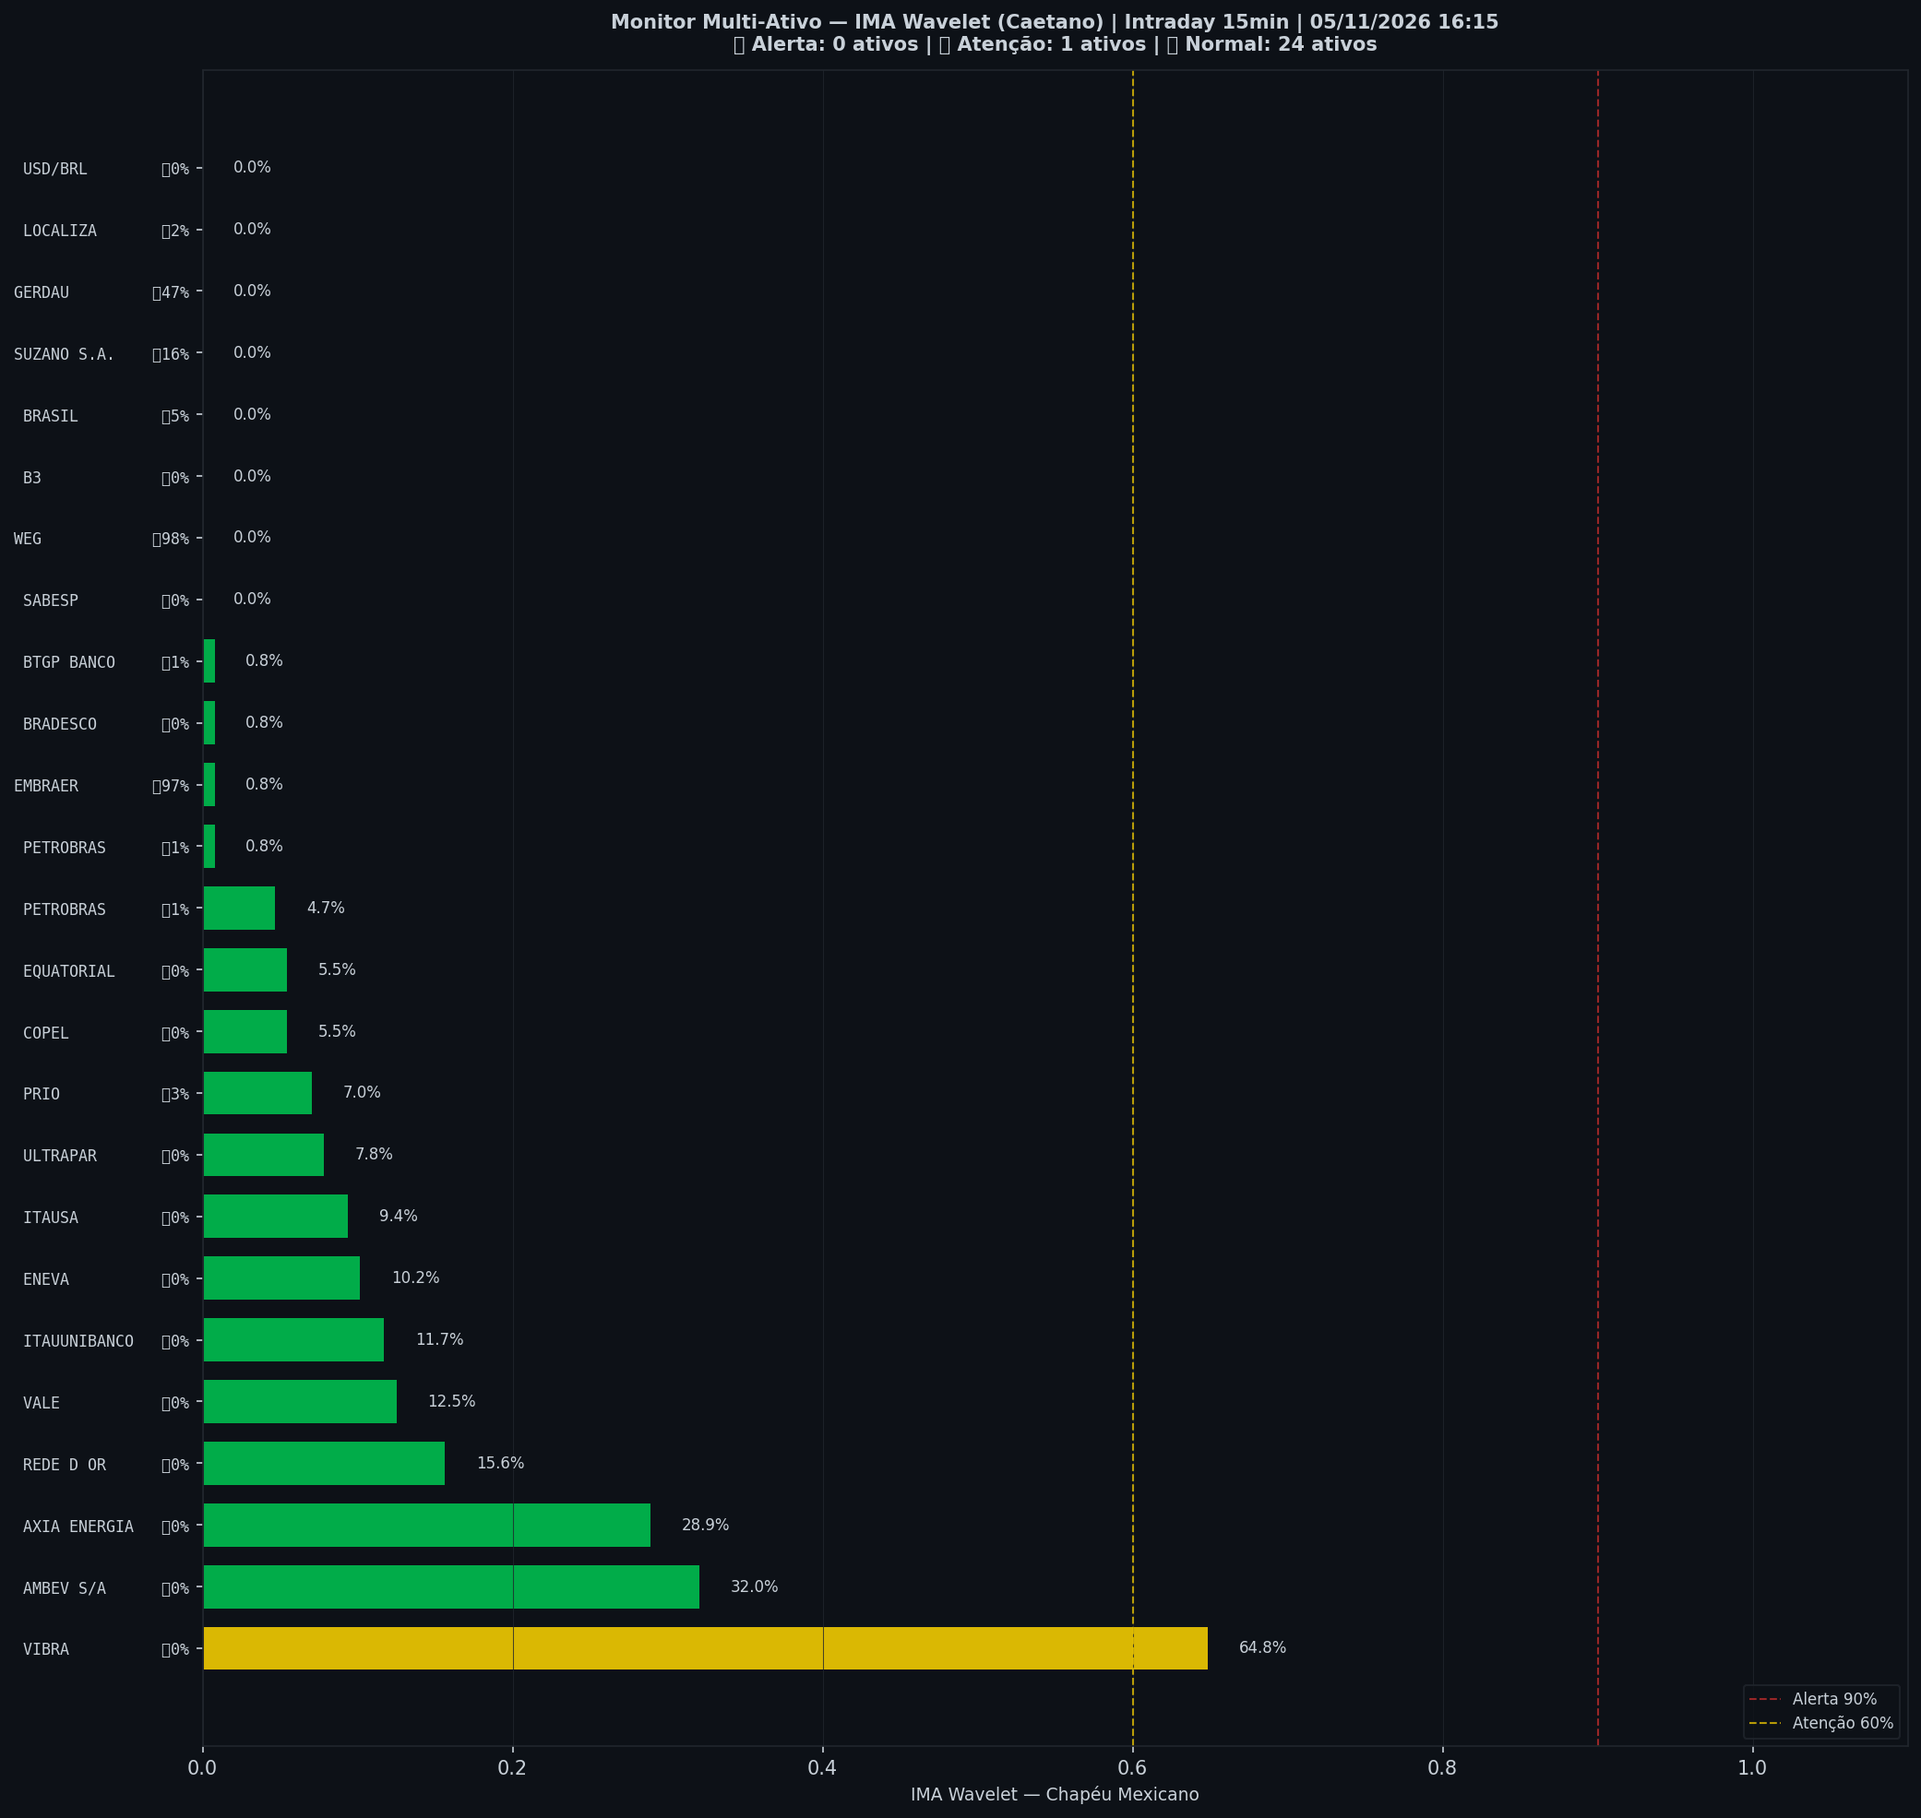
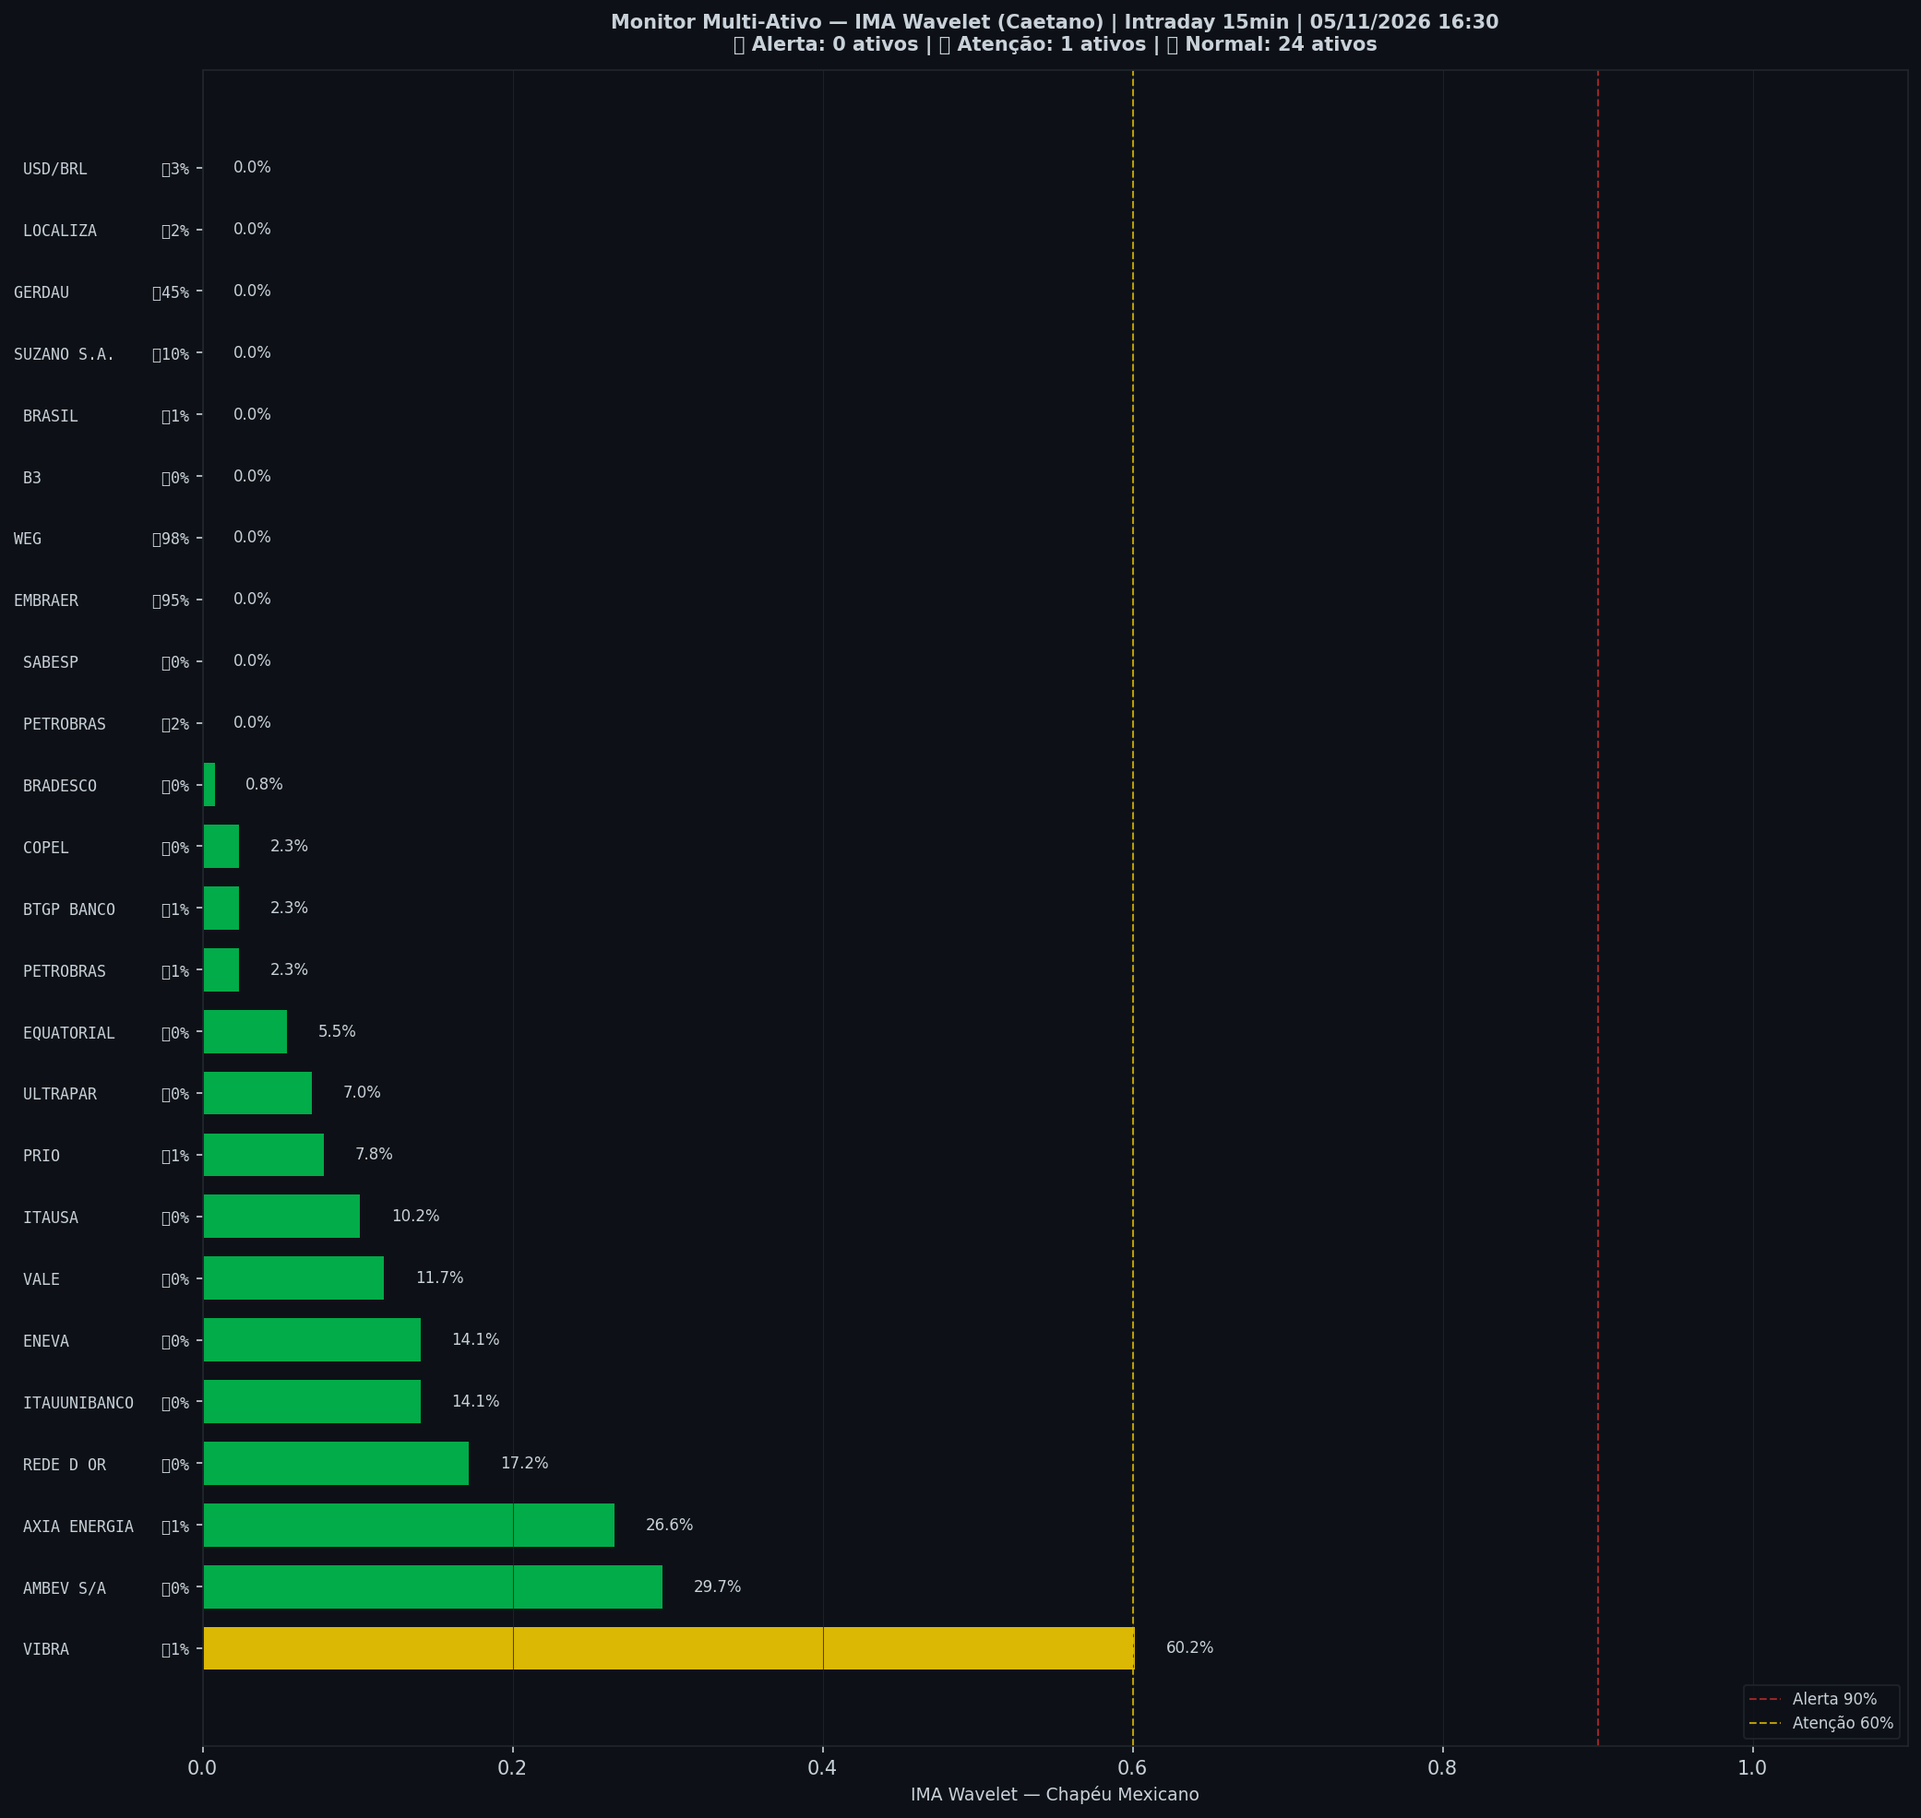
🤖 Auto: Sinal 05/11/2026 16:30

diff --git a/content/intraday/2026-11-05.md b/content/intraday/2026-11-05.md
@@ -1,10 +1,10 @@
 ---
-title: "🟢 Intraday 05/11/2026 16:00 BRT — VERDE"
+title: "🟢 Intraday 05/11/2026 16:15 BRT — VERDE"
 date: 2026-11-05
 tags: [intraday]
 ---
 
-> [!success] Onde o mercado está agora (05/11 16:00, candles de 15 min): **🟢 Calmo**
+> [!success] Onde o mercado está agora (05/11 16:15, candles de 15 min): **🟢 Calmo**
 > `Pânico ◀──────────●──────────▶ Euforia`
 >
 > O Ibovespa está dentro da sua faixa normal, sem excesso para cima nem para baixo.
@@ -20,7 +20,7 @@ tags: [intraday]
 > | 📍 **Sinais** | hoje: nenhum sinal | [abrir](sinais-topo-fundo/) |
 > | 🧪 **Placar ao vivo** | 1 operação(ões), 0 com lucro, soma -0,8% | [abrir](operacoes/) |
 
-> [!success] IMA Intraday · 15 min (05/11 16:00): 🟢 **VERDE** — Risco 1% · ＝ +0 p.p. vs leitura anterior
+> [!success] IMA Intraday · 15 min (05/11 16:15): 🟢 **VERDE** — Risco 0% · ▼ -1 p.p. vs leitura anterior
 > `░░░░░░░░░░░░░░░░░░░░`
 > Preço na faixa normal em torno da tendência.
 
@@ -32,13 +32,13 @@ tags: [intraday]
 >
 > *Leitura educacional baseada em 26 anos de dados, não recomendação. [Como usar](../metodologia/crise#3-como-usar-na-prática).*
 
-| Indicador — IMA Intraday · 15 min (05/11 16:00) | Valor |
+| Indicador — IMA Intraday · 15 min (05/11 16:15) | Valor |
 |---|---|
-| 🔴 ζ Topo — preço esticado acima da tendência | **1%** |
+| 🔴 ζ Topo — preço esticado acima da tendência | **0%** |
 | 🔵 ζ Fundo — preço esticado abaixo da tendência | 0% |
 | 🫧 LPPL bolha — alta super-exponencial (risco de crash) | 0% |
 | 🫧 LPPL antibolha — queda super-exponencial (risco de repique) | 0% |
-| 📊 Ibovespa | 166.918 pts |
+| 📊 Ibovespa | 166.614 pts |
 
 ![Gráfico do sinal](../graficos/sinal_intraday.png)
 
@@ -46,6 +46,7 @@ tags: [intraday]
 
 | Data | Zona | Evento | Risco | ζ Topo | ζ Fundo | LPPL |
 |---|---|---|---|---|---|---|
+| 2026-11-05 16:15 | 🟢 VERDE |  | **0%** | 0% | 0% | 0% |
 | 2026-11-05 16:00 | 🟢 VERDE |  | **1%** | 1% | 0% | 0% |
 | 2026-11-05 15:45 | 🟢 VERDE |  | **1%** | 1% | 0% | 0% |
 | 2026-11-05 15:30 | 🟢 VERDE |  | **1%** | 1% | 0% | 0% |
@@ -75,7 +76,6 @@ tags: [intraday]
 | 2026-11-04 16:30 | 🟢 VERDE |  | **5%** | 5% | 0% | 0% |
 | 2026-11-04 16:15 | 🟢 VERDE |  | **8%** | 8% | 0% | 0% |
 | 2026-11-04 16:00 | 🟢 VERDE |  | **12%** | 12% | 0% | 0% |
-| 2026-11-04 15:45 | 🟢 VERDE |  | **19%** | 19% | 0% | 0% |
 
 <small>Destaques: 🟡 ≥ 60% · 🔴 ≥ 90% (Risco e ζ Topo) · 🔵 ≥ 60% · 🔪 ≥ 90% (ζ Fundo) · 🫧 ≥ 30% · 🫧🔴 ≥ 50% (LPPL)</small>
 
@@ -84,41 +84,41 @@ tags: [intraday]
 **4% dos ativos em tensão** (0🔴 1🟡) · **2 com ζ Fundo alto** — quanto mais ativos disparam juntos, mais confiável o sinal.
 
 > [!danger] Em destaque no multi-ativo
-> 🔪 **WEG** ζ Fundo 98% · 🔪 **EMBRAER** ζ Fundo 97% · 🟡 **VIBRA** ζ Topo 65%
+> 🔪 **WEG** ζ Fundo 98% · 🔪 **EMBRAER** ζ Fundo 95% · 🟡 **VIBRA** ζ Topo 60%
 
 | Zona | Ativo | Setor | ζ Topo | ζ Fundo |
 |---|---|---|---|---|
-| 🟢 | **WEG** | Industrial | 0.0% | 🔪 **98.4%** |
-| 🟢 | **EMBRAER** | Outros | 0.8% | 🔪 **96.9%** |
-| 🟡 | **VIBRA** | Energia | 🟡 **64.8%** | 0.0% |
-| 🟢 | **GERDAU** | Siderurgia | 0.0% | 46.9% |
-| 🟢 | **AMBEV S/A** | Consumo | 32.0% | 0.0% |
-| 🟢 | **AXIA ENERGIA** | Energia | 28.9% | 0.0% |
-| 🟢 | **REDE D OR** | Saúde | 15.6% | 0.0% |
-| 🟢 | **SUZANO S.A.** | Papel/Celulose | 0.0% | 15.6% |
-| 🟢 | **VALE** | Mineração | 12.5% | 0.0% |
-| 🟢 | **ITAUUNIBANCO** | Financeiro | 11.7% | 0.0% |
-| 🟢 | **ENEVA** | Energia | 10.2% | 0.0% |
-| 🟢 | **ITAUSA** | Financeiro | 9.4% | 0.0% |
-| 🟢 | **ULTRAPAR** | Outros | 7.8% | 0.0% |
-| 🟢 | **PRIO** | Petróleo | 7.0% | 3.1% |
-| 🟢 | **COPEL** | Energia | 5.5% | 0.0% |
+| 🟢 | **WEG** | Industrial | 0.0% | 🔪 **97.7%** |
+| 🟢 | **EMBRAER** | Outros | 0.0% | 🔪 **95.3%** |
+| 🟡 | **VIBRA** | Energia | 🟡 **60.2%** | 0.8% |
+| 🟢 | **GERDAU** | Siderurgia | 0.0% | 45.3% |
+| 🟢 | **AMBEV S/A** | Consumo | 29.7% | 0.0% |
+| 🟢 | **AXIA ENERGIA** | Energia | 26.6% | 0.8% |
+| 🟢 | **REDE D OR** | Saúde | 17.2% | 0.0% |
+| 🟢 | **ITAUUNIBANCO** | Financeiro | 14.1% | 0.0% |
+| 🟢 | **ENEVA** | Energia | 14.1% | 0.0% |
+| 🟢 | **VALE** | Mineração | 11.7% | 0.0% |
+| 🟢 | **ITAUSA** | Financeiro | 10.2% | 0.0% |
+| 🟢 | **SUZANO S.A.** | Papel/Celulose | 0.0% | 10.2% |
+| 🟢 | **PRIO** | Petróleo | 7.8% | 0.8% |
+| 🟢 | **ULTRAPAR** | Outros | 7.0% | 0.0% |
 | 🟢 | **EQUATORIAL** | Energia | 5.5% | 0.0% |
-| 🟢 | **PETROBRAS** | Petróleo | 4.7% | 0.8% |
-| 🟢 | **BRASIL** | Financeiro | 0.0% | 4.7% |
+| 🟢 | **USD/BRL** | Câmbio | 0.0% | 3.1% |
+| 🟢 | **PETROBRAS** | Petróleo | 2.3% | 0.8% |
+| 🟢 | **BTGP BANCO** | Financeiro | 2.3% | 0.8% |
+| 🟢 | **COPEL** | Energia | 2.3% | 0.0% |
+| 🟢 | **PETROBRAS** | Petróleo | 0.0% | 1.6% |
 | 🟢 | **LOCALIZA** | Aluguel | 0.0% | 1.6% |
-| 🟢 | **PETROBRAS** | Petróleo | 0.8% | 0.8% |
 | 🟢 | **BRADESCO** | Financeiro | 0.8% | 0.0% |
-| 🟢 | **BTGP BANCO** | Financeiro | 0.8% | 0.8% |
+| 🟢 | **BRASIL** | Financeiro | 0.0% | 0.8% |
 | 🟢 | **SABESP** | Saneamento | 0.0% | 0.0% |
 | 🟢 | **B3** | Financeiro | 0.0% | 0.0% |
-| 🟢 | **USD/BRL** | Câmbio | 0.0% | 0.0% |
 
 <small>Destaques: 🟡 ≥ 60% · 🔴 ≥ 90% (Risco e ζ Topo) · 🔵 ≥ 60% · 🔪 ≥ 90% (ζ Fundo) · 🫧 ≥ 30% · 🫧🔴 ≥ 50% (LPPL)</small>
 
 ![Monitor multi-ativo](../graficos/multi_intraday.png)
 
-*Página atualizada em 05/11/2026 16:15 BRT (leitura da barra de 2026-11-05 16:00 BRT).*
+*Página atualizada em 05/11/2026 16:30 BRT (leitura da barra de 2026-11-05 16:15 BRT).*
 
 > [!warning] O que este indicador não faz
 > Medido em 5 anos de Ibovespa, o ζ **não antecipa** topos nem fundos: a capacidade de separar o que sobe do que cai ficou em 0,49–0,52, e 0,50 é moeda jogada ao ar. Ele descreve o estado de agora; não é aviso do que vem. As zonas verde/amarelo/vermelho continuam na página como descrição desse estado — **não as use como sinal de entrada ou saída**.

diff --git a/content/index.md b/content/index.md
@@ -6,9 +6,9 @@ tags: [home]
 
 **As ondas do mercado, explicadas.** Leitura do Ibovespa com estatística de 26 anos, baseada no trabalho de pesquisadores e traders reconhecidos e adaptada por Jarbas Daniel da Costa.
 
-*Última atualização: 05/11/2026 16:15 BRT · Intraday 15min*
+*Última atualização: 05/11/2026 16:30 BRT · Intraday 15min*
 
-> [!success] Onde o mercado está agora (05/11 16:00, candles de 15 min): **🟢 Calmo**
+> [!success] Onde o mercado está agora (05/11 16:15, candles de 15 min): **🟢 Calmo**
 > `Pânico ◀──────────●──────────▶ Euforia`
 >
 > O Ibovespa está dentro da sua faixa normal, sem excesso para cima nem para baixo.
@@ -20,7 +20,7 @@ tags: [home]
 
 | Módulo | Agora | |
 |---|---|---|
-| 🌊 **Sinal de Crise** | 🟢 VERDE · 🟢 calmo · ζ Topo 1% | [relatório](intraday/2026-11-05) |
+| 🌊 **Sinal de Crise** | 🟢 VERDE · 🟢 calmo · ζ Topo 0% | [relatório](intraday/2026-11-05) |
 | 📈 **Tendência MME9** | Diário — fora<br>Semanal — fora | [abrir](operacoes/tendencia) |
 | 🎯 **Entradas do método** | ⏳ aguardando: Diário · Nadaraya, Diário · Semáforo N3 após ζ Fundo | [abrir](operacoes/entradas) |
 | 📍 **Sinais** | hoje: nenhum sinal | [abrir](sinais-topo-fundo/) |
@@ -54,18 +54,18 @@ tags: [home]
 > *Leitura educacional baseada em 26 anos de dados, não recomendação. [Como usar](metodologia/crise#3-como-usar-na-prática).*
 
 > [!info]- 🌊 Detalhes do Sinal de Crise (indicadores e últimos 7 pregões)
-> > [!success] IMA Intraday · 15 min (05/11 16:00): 🟢 **VERDE** — Risco 1% · ＝ +0 p.p. vs leitura anterior
+> > [!success] IMA Intraday · 15 min (05/11 16:15): 🟢 **VERDE** — Risco 0% · ▼ -1 p.p. vs leitura anterior
 > > `░░░░░░░░░░░░░░░░░░░░`
 > > Preço na faixa normal em torno da tendência.
 >
 >
-> | Indicador — IMA Intraday · 15 min (05/11 16:00) | Valor |
+> | Indicador — IMA Intraday · 15 min (05/11 16:15) | Valor |
 > |---|---|
-> | 🔴 ζ Topo — preço esticado acima da tendência | **1%** |
+> | 🔴 ζ Topo — preço esticado acima da tendência | **0%** |
 > | 🔵 ζ Fundo — preço esticado abaixo da tendência | 0% |
 > | 🫧 LPPL bolha — alta super-exponencial (risco de crash) | 0% |
 > | 🫧 LPPL antibolha — queda super-exponencial (risco de repique) | 0% |
-> | 📊 Ibovespa | 166.918 pts |
+> | 📊 Ibovespa | 166.614 pts |
 >
 > **Multi-ativo:** 4% em tensão (0🔴 1🟡 de 25 ativos)
 >
@@ -73,7 +73,7 @@ tags: [home]
 >
 > | Data | Zona | Risco | ζ Topo | ζ Fundo | LPPL |
 > |---|---|---|---|---|---|
-> | [05/11/2026](intraday/2026-11-05) | 🟢 VERDE | **1%** | 1% | 0% | 0% |
+> | [05/11/2026](intraday/2026-11-05) | 🟢 VERDE | **0%** | 0% | 0% | 0% |
 > | [04/11/2026](intraday/2026-11-04) | 🟢 VERDE | **4%** | 4% | 0% | 0% |
 >
 > <small>Destaques: 🟡 ≥ 60% · 🔴 ≥ 90% (Risco e ζ Topo) · 🔵 ≥ 60% · 🔪 ≥ 90% (ζ Fundo) · 🫧 ≥ 30% · 🫧🔴 ≥ 50% (LPPL)</small>

diff --git a/content/operacoes/entradas.md b/content/operacoes/entradas.md
@@ -31,7 +31,7 @@ description: "Compra depois de um sinal de fundo: Nadaraya no diário, semáforo
 > | Diário · Semáforo N3 após ζ Fundo | 07/07/26 a 172.021 | 10/08/26 a 172.021 | **+0,0%** | stop no preço de entrada |
 > | H4 · Semáforo N2 | 12/06/26 14h a 171.134 | 15/06/26 14h a 171.134 | **+0,0%** | stop no preço de entrada |
 >
-> <small>Atualizado 04/11 19:00 · checado no pregão às 16:15. Nota: ✅ passou no teste fora da amostra (walk-forward 2008–2026) · 🧪 em teste (H4, com aviso no Telegram) ou em observação (ζ, sem aviso) · 🧪 na tabela = operação do teste ao vivo.</small>
+> <small>Atualizado 04/11 19:00 · checado no pregão às 16:30. Nota: ✅ passou no teste fora da amostra (walk-forward 2008–2026) · 🧪 em teste (H4, com aviso no Telegram) ou em observação (ζ, sem aviso) · 🧪 na tabela = operação do teste ao vivo.</small>
 >
 > *Regras: depois de um sinal de fundo, o Diário entra quando o Nadaraya vira para cima; o Semanal e o H4 entram quando um fundo do semáforo fica fixo. Stop e saída de cada regra na [metodologia](metodologia/regras-de-operacao#entradas-do-método). Nenhuma regra de venda passou no teste. Os números do histórico têm viés de escolha (overfitting); o placar ao vivo é o que vale. Leitura educacional do método, não recomendação.*
 

diff --git a/content/historico.md b/content/historico.md
@@ -5,7 +5,7 @@ tags: [historico]
 
 # 📜 Histórico de leituras (v5)
 
-**2.167 leituras** desde 2026-07-03. Na página ficam os últimos 3 dias leitura por leitura e o resumo de cada dia anterior; o registro inteiro está no arquivo para baixar.
+**2.168 leituras** desde 2026-07-03. Na página ficam os últimos 3 dias leitura por leitura e o resumo de cada dia anterior; o registro inteiro está no arquivo para baixar.
 
 [**Baixar o histórico completo**](historico-completo.csv) (95 KB · abre no Excel e no LibreOffice)
 
@@ -16,6 +16,7 @@ tags: [historico]
 
 | Data | Modo | Zona | Risco | IMA | LPPL |
 |---|---|---|---|---|---|
+| 2026-11-05 16:15 | intraday | 🟢 VERDE | 0% | 0% | 0% |
 | 2026-11-05 16:00 | intraday | 🟢 VERDE | 1% | 1% | 0% |
 | 2026-11-05 15:45 | intraday | 🟢 VERDE | 1% | 1% | 0% |
 | 2026-11-05 15:30 | intraday | 🟢 VERDE | 1% | 1% | 0% |

diff --git a/content/operacoes/ranking.md b/content/operacoes/ranking.md
@@ -5,7 +5,7 @@ tags: [operacoes]
 description: "As regras de compra do site ordenadas pelo resultado, com treino, teste e placar ao vivo"
 ---
 
-*Atualizado 05/11/2026 16:15 · histórico simulado com as regras congeladas em 23/10/2026 + placar ao vivo.*
+*Atualizado 05/11/2026 16:30 · histórico simulado com as regras congeladas em 23/10/2026 + placar ao vivo.*
 
 As regras de compra do site, **da que mais rendeu para a que menos rendeu**. O resultado é por operação, no índice à vista, sem custos e sem juros compostos (a soma é só a soma das operações). **Treino** = entradas de 2001 a 2013 e **teste** = 2014 em diante: uma regra só é confiável se ganhou nos dois. O único resultado sem nenhum ajuste ao histórico é o **placar ao vivo**.
 

diff --git a/content/linha-do-tempo/index.md b/content/linha-do-tempo/index.md
@@ -5,7 +5,7 @@ description: "Todo sinal, ordem, stop e aviso do Pêndulo de Mercado, do mais re
 tags: [eventos]
 ---
 
-*Atualizada 05/11/2026 16:15 BRT · a cada 15 min no pregão e às 19h.*
+*Atualizada 05/11/2026 16:30 BRT · a cada 15 min no pregão e às 19h.*
 
 Tudo o que o sistema fez ou detectou, **do mais recente para o mais antigo**: sinais de topo e fundo, ordens de compra e de venda armadas, compras, vendas, stops, avisos de 🚨 preço perto do nível e mudanças da Crise. Os **últimos 7 dias** ficam abertos; o resto, por **ano → mês → dia**.
 
